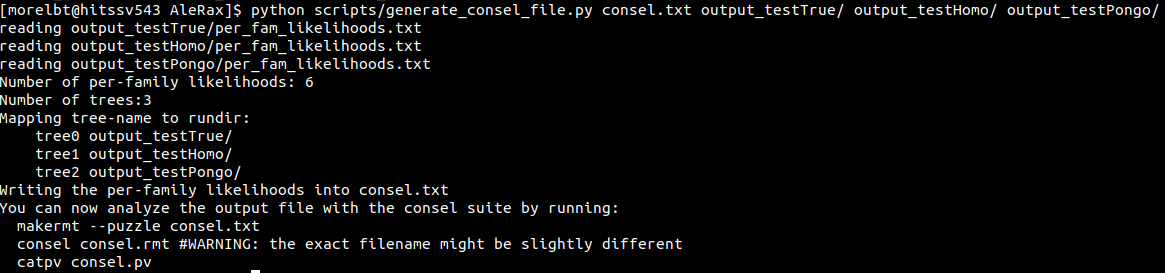
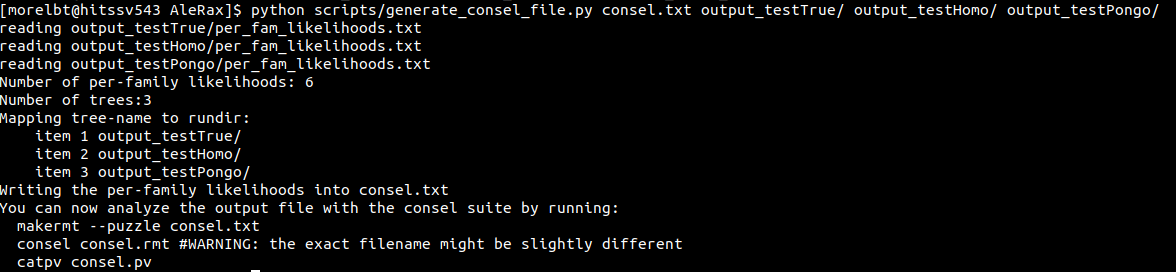
Update generate_consel_file to make the output more intuitive

Changed region(s): [[0.0, 0.0, 1.0, 1.0]]

diff --git a/scripts/generate_consel_file.py b/scripts/generate_consel_file.py
@@ -12,7 +12,7 @@ def generate_consel_file(output, rundirs):
   families = []
   trees = []
   for rundir in rundirs:
-    tree = "tree" + str(index)
+    tree = "item " + str(index + 1)
     trees.append(tree)
     if (index == 0):
       first_tree = tree
